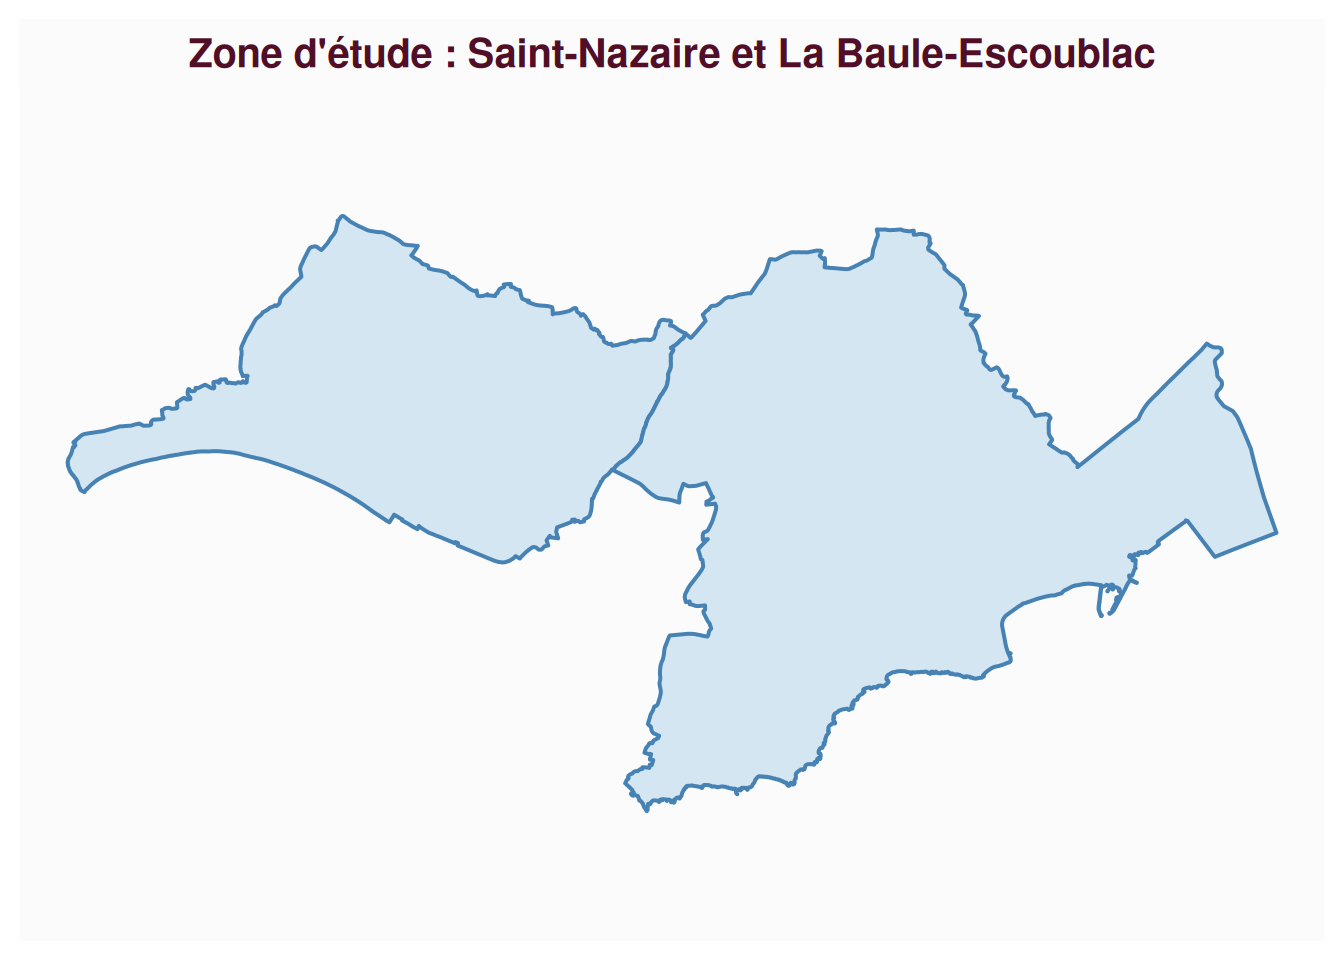
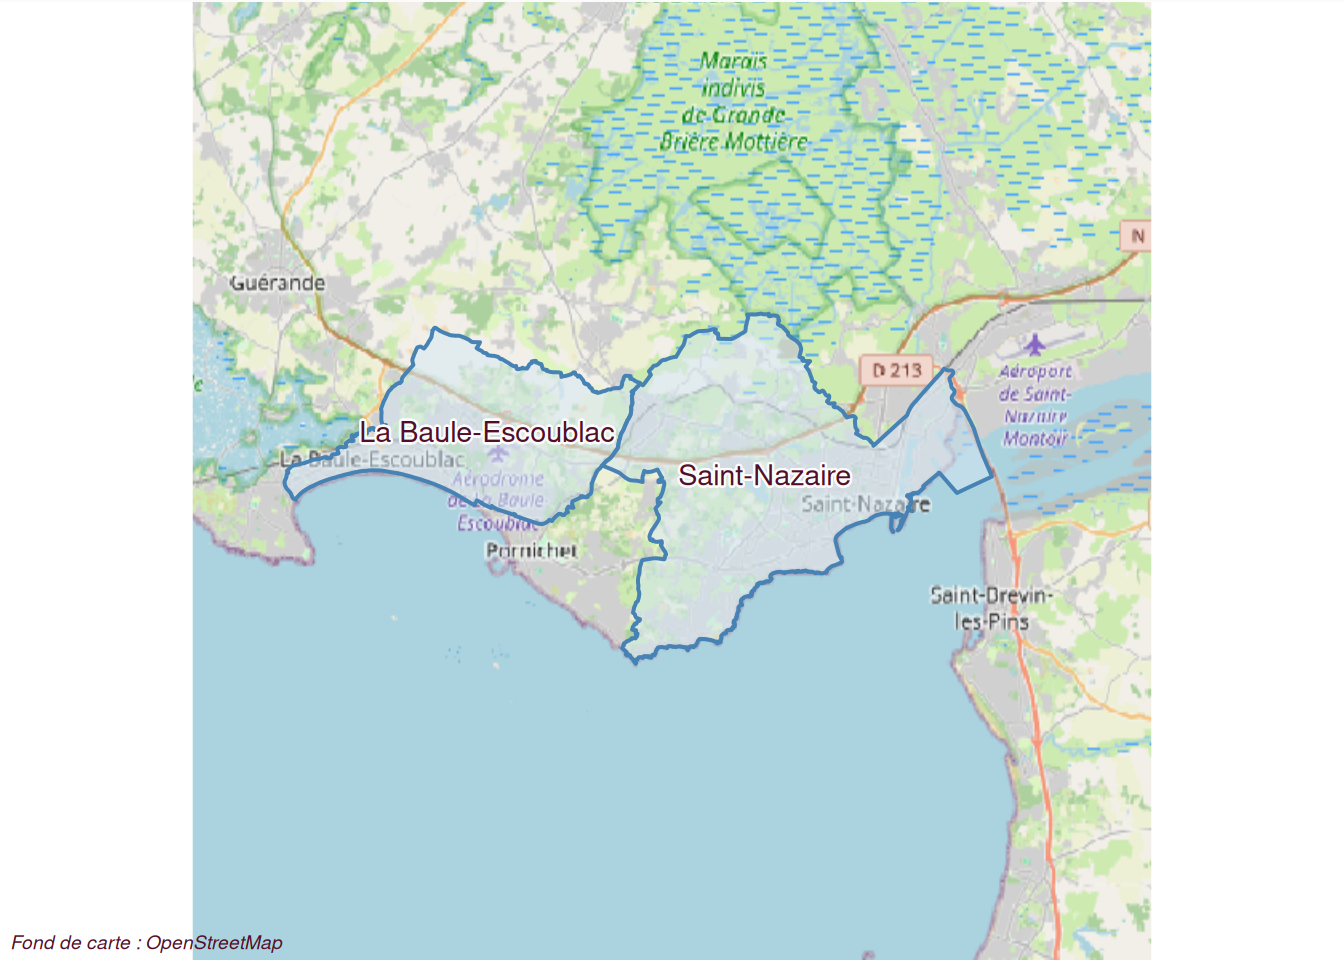
amélioration carte localisation commune (ajout open-street map derrière)

diff --git a/docs/gt_rasters.html b/docs/gt_rasters.html
@@ -379,7 +379,7 @@ window.addEventListener("load", function() {
 </div>
 <div id="récupération-de-lorthophoto-ign" class="section level3">
 <h3>Récupération de l’orthophoto IGN</h3>
-<pre><code>## 0...10...20...30...40...50...60...70...80...90...100 - done.</code></pre>
+<pre><code>## ...20...30...40...50...60...70...80...90...100 - done.</code></pre>
 <p><img src="gt_rasters_files/figure-html/unnamed-chunk-3-1.png" alt="" width="672" /></p>
 </div>
 <div id="seuillage-détection-des-zones-végétalisées"
